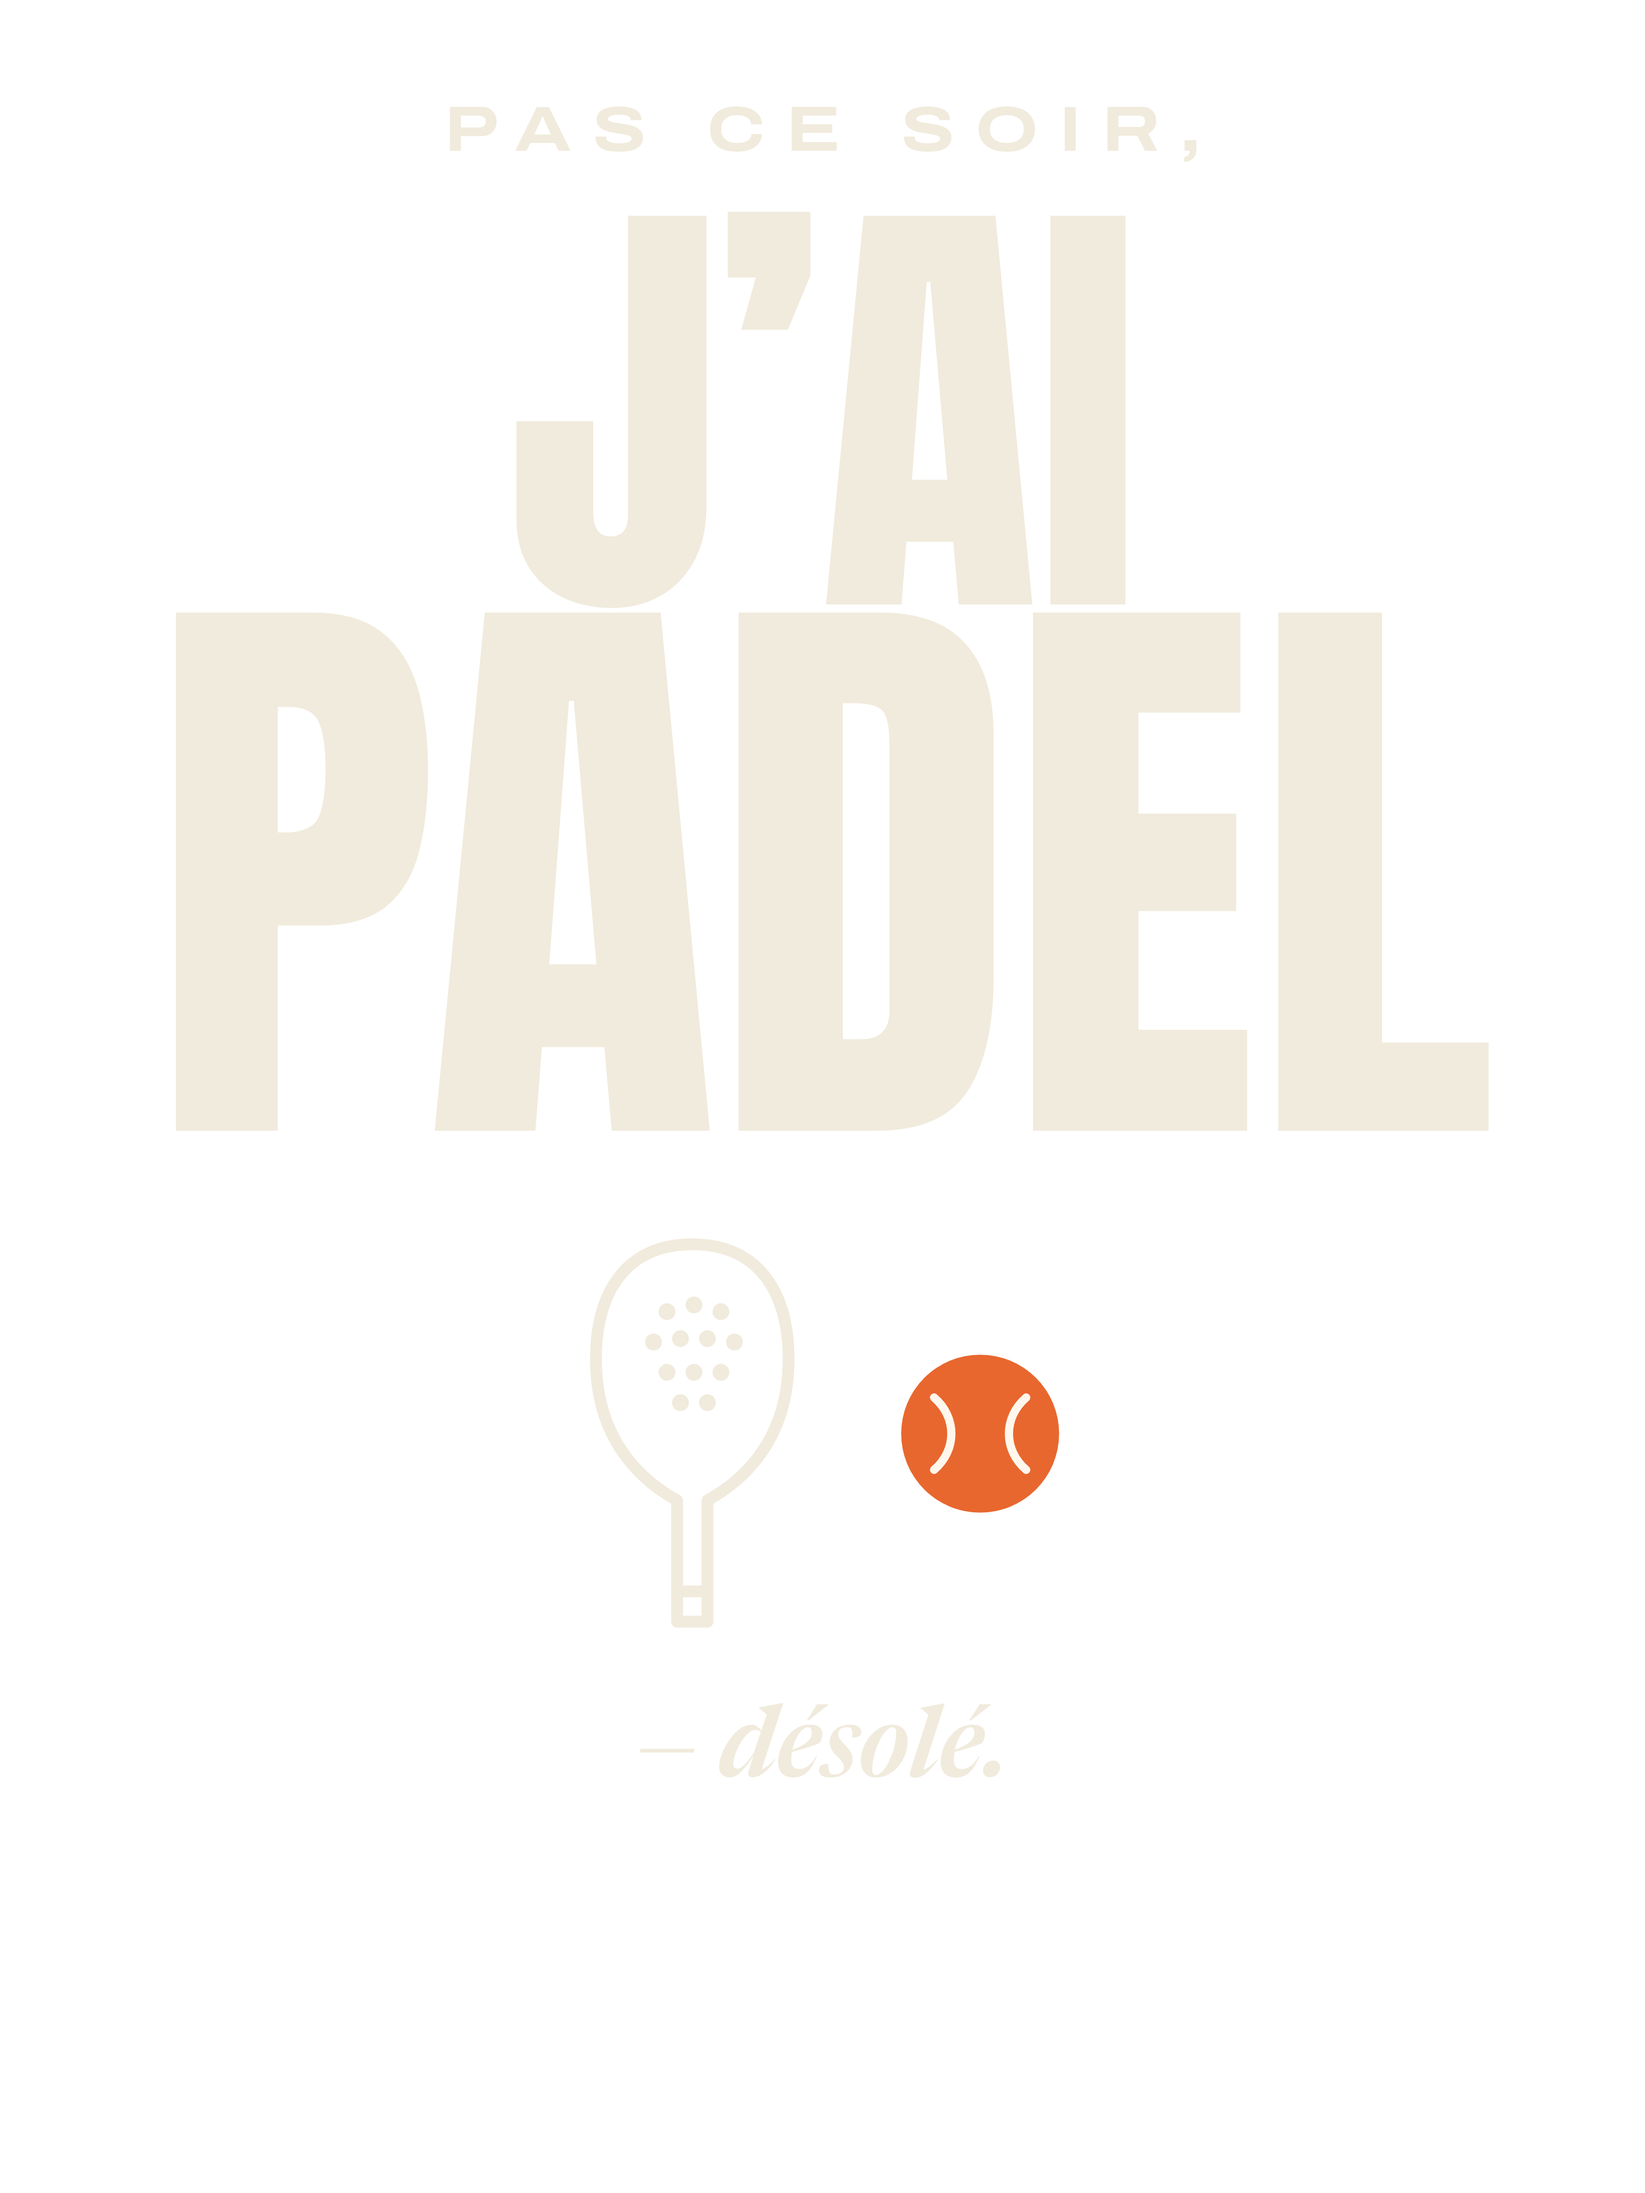
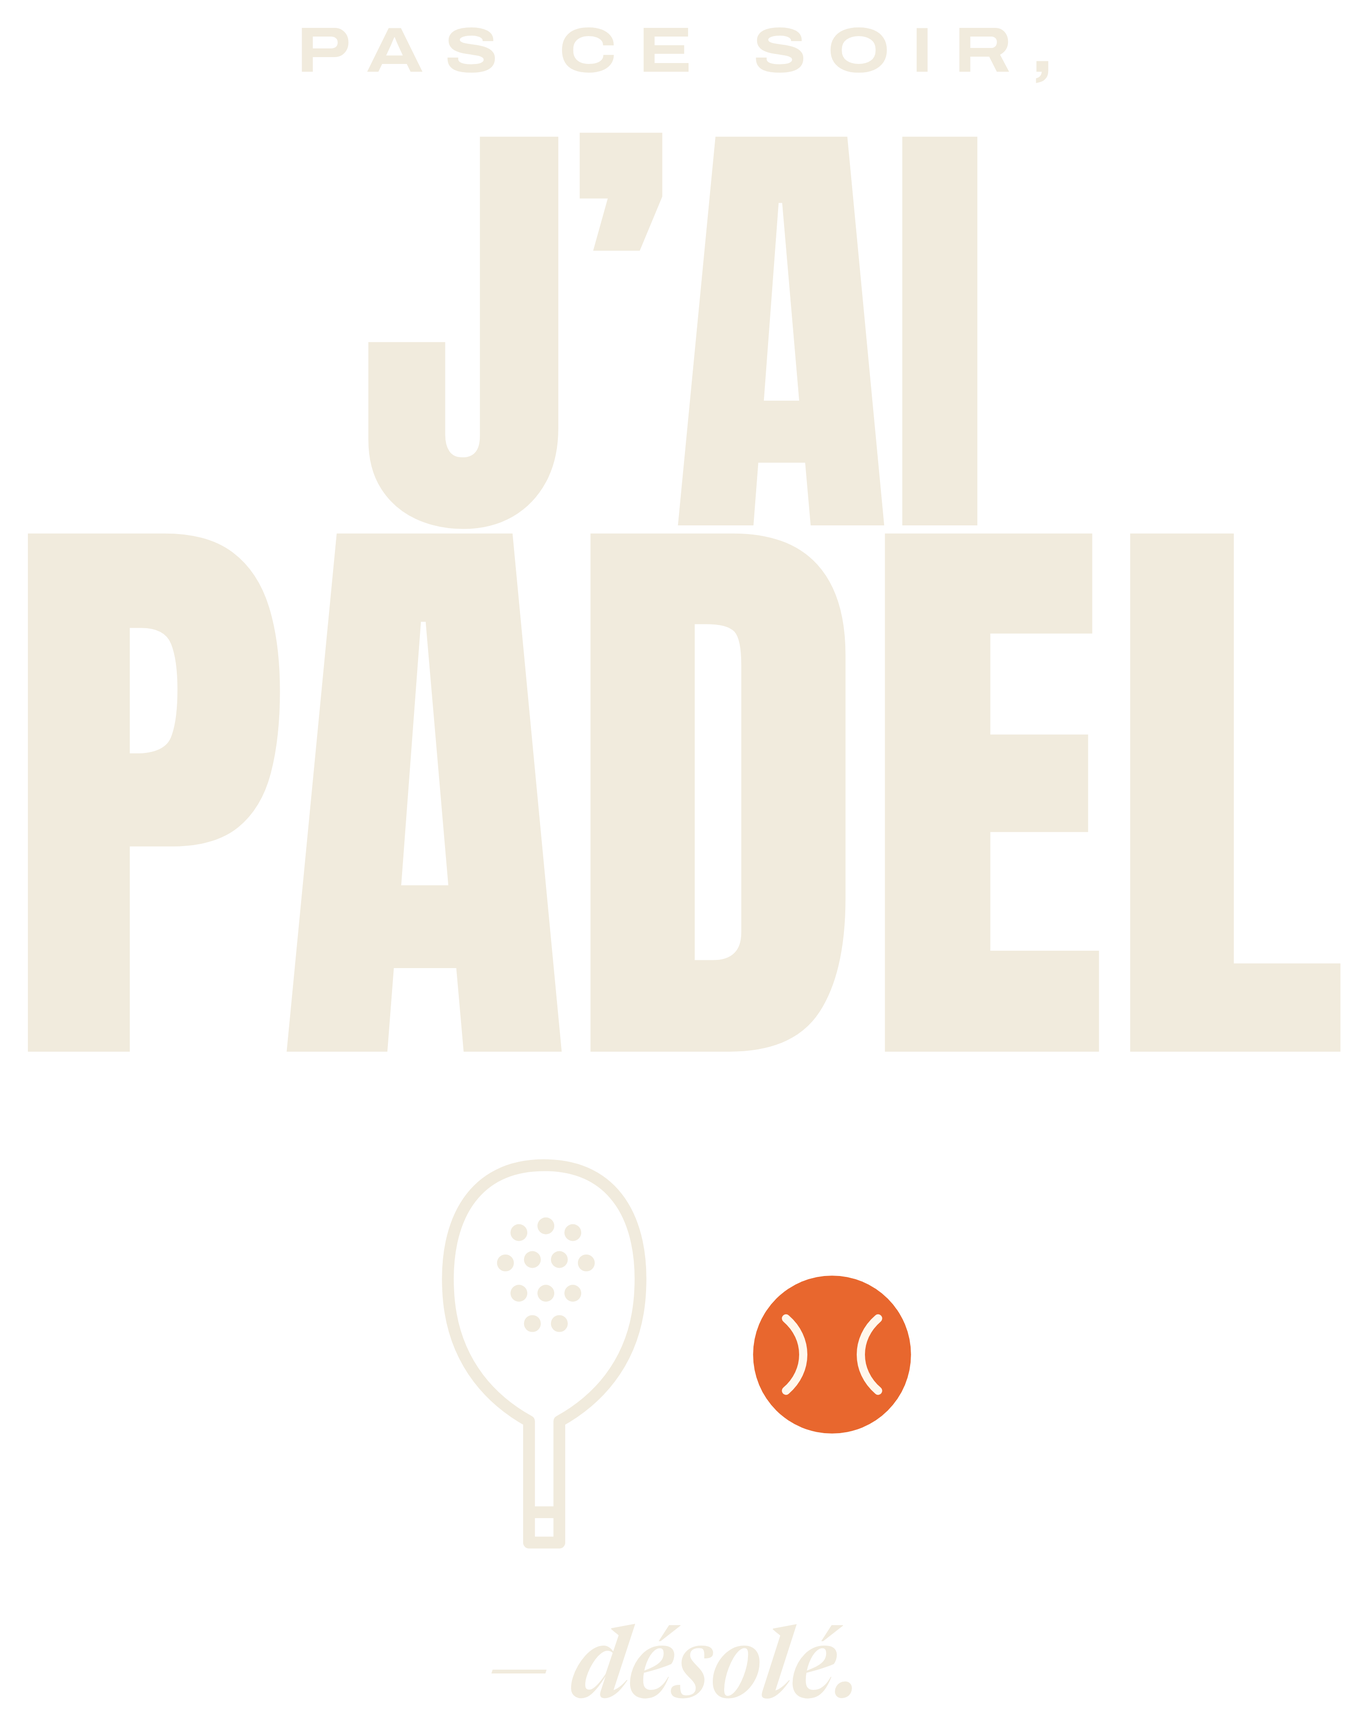
Visuels noirs : recadrés au dessin, 300 dpi
Claude-Session: https://claude.ai/code/session_01C8kmmK5jZdRE52kQ46Hk13

diff --git a/shopify/designs/noir/LISEZ-MOI.md b/shopify/designs/noir/LISEZ-MOI.md
@@ -11,8 +11,10 @@ Les modèles « Côté drive », « Côté revés », « Lob. Vitre. Point. » e
 | `lob-vitre-point_devant_noir.png` / `lob-vitre-point_dos_noir.png` | devant / dos |
 | `j-ai-padel_devant_noir.png` / `j-ai-padel_dos_noir.png` | devant / dos |
 
-- PNG transparents, 3600 × 4800 px : zone d'impression complète 12 × 16 in à 300 dpi.
-- Le visuel est en haut et centré, comme sur les versions actuelles. Dans Printful, garder le fichier en pleine zone (ne pas le réduire) pour retrouver la même taille.
+- PNG à fond transparent, recadrés au dessin (marge de 60 px), 300 dpi, comme les fichiers de `designs/final/`.
+- Taille d'impression à 300 dpi : drive devant 9,0 × 8,3 in · dos 11,2 × 4,6 in ; revés devant 9,7 × 8,5 in · dos 9,5 × 4,6 in ; lob devant 10,1 × 9,2 in · dos 9,5 × 11,7 in ; j'ai padel devant 10,0 × 12,6 in · dos 11,3 × 6,2 in.
+- Dans Printful : centrer horizontalement, placer en haut de la zone, et régler la largeur sur celle de la version bleu nuit actuelle pour garder la même taille.
+- Le texte est crème : sur un fond d'aperçu blanc ou à damier clair, il se voit mal. C'est normal, il est fait pour le noir.
 - `apercus/` : rendu sur la photo Printful du t-shirt noir, l'ancien visuel effacé. Indicatif.
 
 ## Ce qui change par rapport aux originaux
